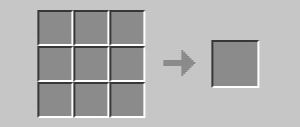
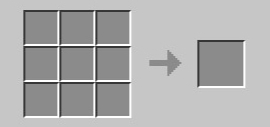
6.3.2.2

diff --git a/index.css b/index.css
@@ -42,6 +42,10 @@ div.centerHidden{
     justify-content: center;
 }
 
+.Flex_Center{
+    display: flex;
+    justify-content: center;
+}
 button.padding{
     padding: 5px 20px;
     width: 230px;               /*Merke width setzt sich aus padding margin border width zusammen!!*/
@@ -57,6 +61,7 @@ button.padding{
 .silkscreennormal{
     font-family: silkscreennormal;
 }
+
 
 /*Minecraft Design*/
 
@@ -276,7 +281,12 @@ h3{
     transform: rotate(-35deg);
 }
 
-div.Crafting{
+
+
+
+
+
+div.Crafting_Headline{
     display: flex;
     justify-content: center;
 }
@@ -284,7 +294,7 @@ div.Crafting{
 div.Craftingheadline{
     margin-top: 90px;
     background-color: rgb(198, 198, 198);
-    padding: 20px 0px 10px 15px;
+    padding: 15px 0px 5px 10px;
     position: relative;
 }
 
@@ -298,11 +308,29 @@ div.Craftingheadline{
 
 .Crafting_Result{
     border: none;
-    z-index: 0;
+    z-index: 0;            /*alle z-index und mit js immer ein zahl höher wo gezeigt wird oder so*/
     position: absolute;
     width: 35px;
     height: 35px;
-    left: 272px;
-    bottom: 71px;
+    left: 280px;
+    bottom: 74px;
 }
 
+.Crafting_Correction{
+    position: absolute;
+    width: 150px;
+    height: 150px;
+    bottom: 20px;
+    left: 35px;
+}
+
+div.Choice_Crafting{
+}
+
+img.Choice_Crafting{
+    display: block;
+    margin: 30px;
+    background-color: rgb(139, 139, 139);
+    padding: 5px;
+    border: 2px solid black;
+}

diff --git a/1Spielen/Crafting Rezepte/Crafting_Rezepte.html b/1Spielen/Crafting Rezepte/Crafting_Rezepte.html
@@ -10,12 +10,28 @@
 <body>
 
     
-<div class="Crafting">
+<div class="Crafting" >
 
-    <div class="Craftingheadline MinecraftDesign noHover">
-        <img class="imageDefault" src="../../0Bilder/Crafting_Rezepte/Default.jpg" alt="">
-        <img class="Crafting_Result" src="../../0Bilder/Crafting_Rezepte/diamond_chestplate.png" alt="">    <!--55px 55px Bilder-->
+    <div class="Crafting_Headline">
+
+        <div class="Craftingheadline MinecraftDesign noHover">
+            <img class="imageDefault" src="../../0Bilder/Crafting_Rezepte/Default.jpg" alt="">
+            <img class="Crafting_Result" src="../../0Bilder/Crafting_Rezepte/diamond_chestplate.png" alt="">    <!--55px 55px Bilder-->
+            <img class="Crafting_Correction" src="">
+        </div>
     </div>
+
+    <div class="Flex_Center" >
+        <div class="Choice_Crafting">
+            <img class="Choice_Crafting" src="../../0Bilder/Crafting_Rezepte/Screenshot 2022-04-04 195303.jpg">
+            <img class="Choice_Crafting" src="../../0Bilder/Crafting_Rezepte/Screenshot 2022-04-04 195303.jpg">
+            <img class="Choice_Crafting" src="../../0Bilder/Crafting_Rezepte/Screenshot 2022-04-04 195303.jpg">
+        </div>
+    </div>
+
+
+
+
 
 
 
